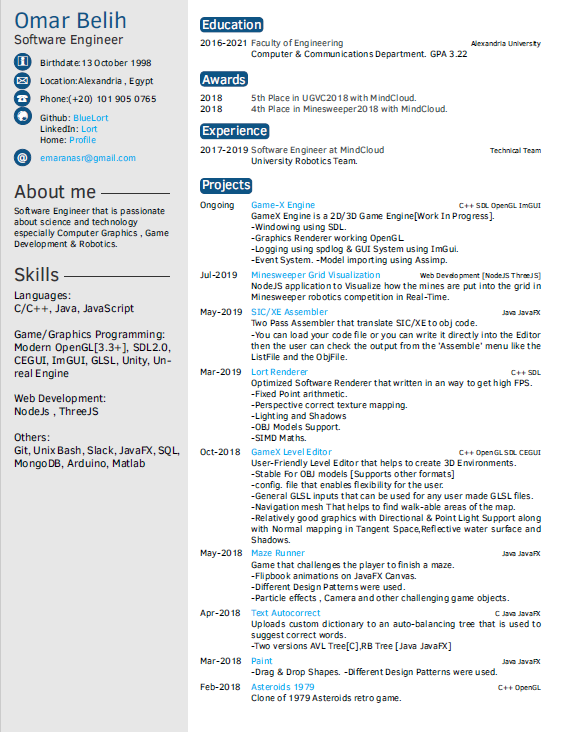
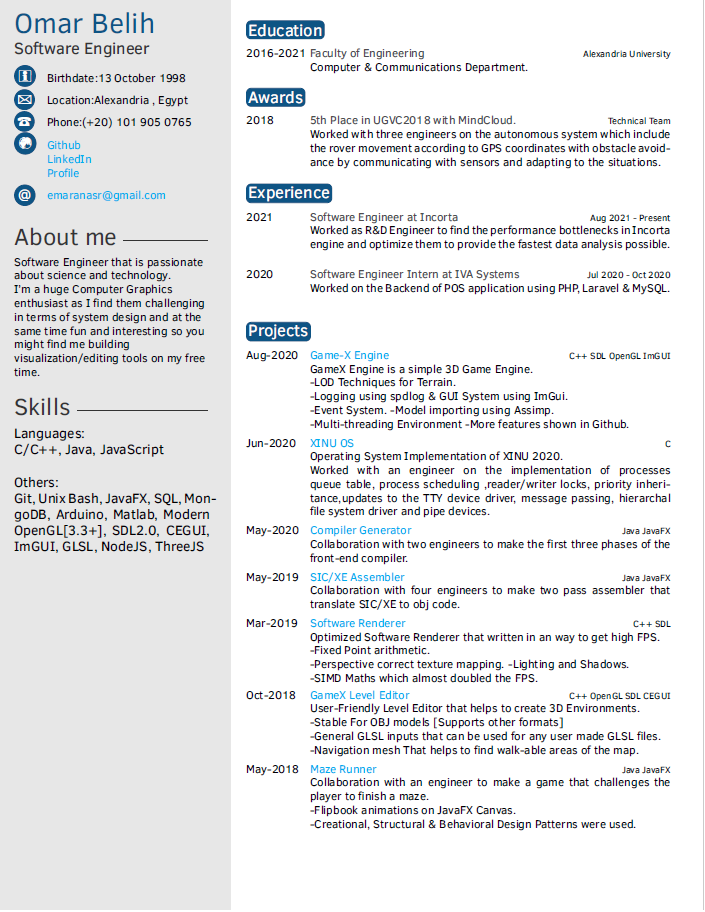
updating profile info

diff --git a/content/home.html b/content/home.html
@@ -1,9 +1,8 @@
 <h1 class="font" style="color: rgb(108, 163, 235)">Hello !</h1>
 <p class="font paragraphs">Welcome to my Online Profile.</p>
-<p class="font paragraphs">I'm Omar<br>Faculty of Engineering student at Alexandria University(Class 2021)<br>
+<p class="font paragraphs">I'm Omar<br>Faculty of Engineering Graduate, Alexandria University(Class 2021)<br>
         Major: Computer & Communications Engineering.</p>
-<p class="font paragraphs">I'm passionate about science and technology in general and a huge Computer Graphics & Game
-        Development enthusiast.</p>
+<p class="font paragraphs">I'm a huge Computer Graphics enthusiast as I find them challenging in terms of system design and at the same time fun and interesting so you might find me building visualization/editing tools on my free time.</p>
 <p class="font paragraphs">You may find Graphics or Games projects on my Github profile and here is a playlist for some
         of them on Youtube. </p>
 <div class="video">

diff --git a/index.html b/index.html
@@ -92,14 +92,14 @@
             <span class="font large-font" id="name">
                 Omar Nasr
             </span>
-            <span class="font" id="skill">Game | Graphics Developer</span>
+            <span class="font" id="skill">Software Engineer</span>
             <a href="https://github.com/BlueLort" target="_blank">
                 <img src="imgs/icons/github.png" class="webIcon">
             </a>
             <a href="https://www.youtube.com/channel/UCez3-zG2T2XO23tQUbae8vA?view_as=subscriber" target="_blank">
                 <img src="imgs/icons/youtube.png" class="webIcon">
             </a>
-            <a href="https://www.linkedin.com/in/Lort/" target="_blank">
+            <a href="https://www.linkedin.com/in/omarbelih/" target="_blank">
                 <img src="imgs/icons/linkedin.png" class="webIcon">
             </a>
             <a href="https://a2oj.com/profile?Username=lort" target="_blank">

diff --git a/content/projects.html b/content/projects.html
@@ -7,8 +7,7 @@
     <h1 class="font" style="color: rgb(108, 163, 235);font-size: 24px;">Game-X Engine</h1>
     <h3 class="technologyUsed font">C++ &nbsp; OpenGL &nbsp; SDL2.0 &nbsp; ImGUI</h3>
     <p class="paragraphs">
-        GameX Engine is a 2D/3D Game Engine built on top of improved features of GameX Level Editor.
-        [Work In Progress]
+        GameX Engine is a simple 3D Game Engine that supports: LOD Techniques for Terrain, Logging using spdlog \& GUI System using ImGui, Event System, Model importing using Assimp, Multi-threading Environment and more features that you can see on Github.
     </p>
 </div>
 <div class="projects">

diff --git a/content/resume.html b/content/resume.html
@@ -3,11 +3,8 @@
             <img src="imgs/previews/cv/cv.PNG" class="img_resume">
         </a>
     <p class="paragraphs">
-        I'm currently looking for a good internship opportunity hopefully to find one in Graphics or Game Development.
-    </p>
-    <p class="paragraphs">
             You can see a version of my CV
-             on the left. [Location and Contact information are hidden]<br>
+             on the left.<br>
             Contact me on emaranasr@gmail.com if you want further information.
         </p>
 </div>
